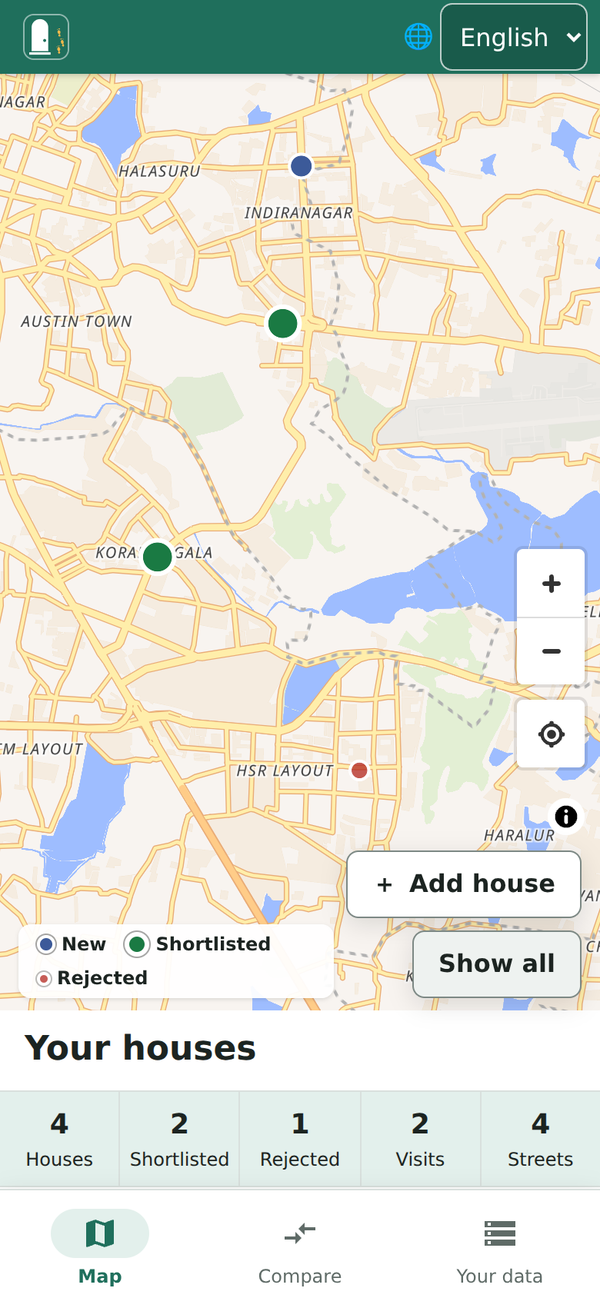
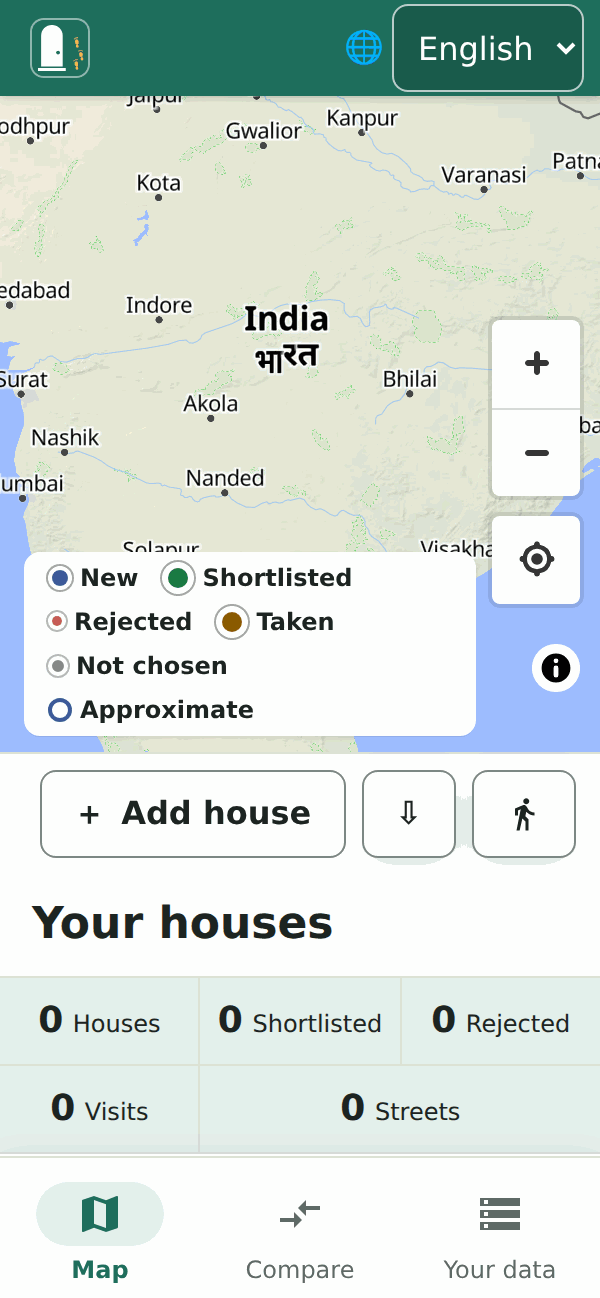
docs(guide): re-shoot the phone Map picture for the new layout (S4b-BL-250)
web-phone-map.png taken from the deployed site; 517,280 to 58,334 bytes.
Alt text updated in en, hi, ta, te.

Claude-Session: https://claude.ai/code/session_01661aQxHCcyQpCCqFJLTZpH

diff --git a/docs/10-sprint-log.md b/docs/10-sprint-log.md
@@ -3,7 +3,7 @@
 | Field | Value |
 |---|---|
 | Document | Agile sprint log (goals, stories, sign-offs, CI results, retrospectives) |
-| Version | 0.284 |
+| Version | 0.285 |
 | Date | 2026-10-13 |
 | Author | Claude (Cowork), Docs team |
 | Status | Draft (Sprint 3.5 KMP foundation delivered and green on `19006bc`; Sprint 4a in progress, section 11; web host **Firebase Hosting at `https://doorprints.web.app`** since 2026-09-23, owner setup done, first deploy pending, §11.6; Sprint 4b scope set by the product owner with the 2026-09-22 additions and the 2026-09-23 import definition, section 12; **whole-app UX audit approved on both clients**, the go-ahead for the first deploy, §11.7; owner's security guard rule, release security gate, process improvements and **first-release Definition of Done** (hi/ta/te ship *under review*) §12.5; licence change to AGPL-3.0-only approved, done 2026-09-29, §12.6; pre-deploy close-out, what is left, backlog tickets and rule candidates, §12.7; **owner issue P0 of 2026-09-24, India's boundaries on the map, merged (PRs #13 and #14) and live**, §12.8; **story S4b-BR-1, the app icon's footprints (option C), PR #15, merged (`76449fb`)**, §12.9; **owner request of 2026-09-24, the doubled lines and the Assam-Arunachal Pradesh state line, fixed on branch `fix/india-boundary-lines`, PR #16, merged (`4100f7a`)**, §12.10; **owner request of 2026-09-24, the Compose Multiplatform track (ADR-23), CMP-1 done in `be86f50`**, §13; **owner request of 2026-09-24, testing the APK and the live web UI, CMP-0 in `afe4064`**, §13.3; **the Sprint 4b/4c finishing batch (slice 5 to Wave E) built on stacked branches, not merged, 2026-10-01**, §13.29..§13.40) |
@@ -290,6 +290,7 @@
 | 0.282 | 2026-10-13 | Claude (Code), engineer | **S4b-BL-252** (`fix/sync-photo-row-key-order`): the key order of a photo row in the Drive sync file is pinned byte for byte on both stacks (the shared written case of `sync-vectors.json` gains a photo with a Drive file and one without, written by the website and by the phone's `SyncRows.photo` alike); TC-U-206, [06](06-test-plan.md); [schemas README](schemas/README.md) §6.5. |
 | 0.283 | 2026-10-13 | Claude (Code), engineer | **S4b-BL-247 In review: the viewing payload says `candidateId`** (`feat/kinds-4c-viewing-candidate-id`): every writer writes a viewing record's candidate as `candidateId` (web `viewingToPayload`, `:shared` `ViewingPayloadSerializer` for the phone and the iPhone, the server's `BackupViewing.toPayload`), every reader also reads `houseId` (the website's `viewingFromPayload`, the phone's `ViewingStore.of`, the server's `ViewingPayload.candidateOf` in `ViewingLine`, `BackupMapper` and `RecordController`, and `findLiveViewingsOfHouse` through `coalesce(payload ->> 'candidateId', payload ->> 'houseId')`), and a payload with both keys is a bad row on every stack; no Flyway migration (no stored row is rewritten). The server's AI line now also skips a candidate id over 64 characters, as the apps and its export already did. New shared vectors `docs/schemas/viewing-payload-vectors.json` (14 cases, read by the three stacks). Mutation lists `tools/mutations/kinds-4c-web-viewing.json` (4), `kinds-4c-android-viewing.json` (3), `kinds-4c-backend-viewing.json` (7), none survive. [03](03-design.md) v0.117 (§18.4 door 2, §18.5), [06](06-test-plan.md) v0.225 (TC-U-208), [schemas README](schemas/README.md) v1.37 (§6.6), [14](14-lead-backlog-and-handoff.md) v0.174 (§11.2). Left of S4b-BL-206: the guide and the CHANGELOG release entry. |
 | 0.284 | 2026-10-13 | Claude (Code), engineer | **S4b-BL-253 In review: `map-page.css` under its style budget again** (`fix/map-css-style-budget`): 262 bytes less in the minified component style (8,289 to 8,027; the budget stays 8kb) with every computed style and box on the map page unchanged (72 states, light and dark), the layout gate 193/193. New row S4b-BL-254 (Open): the `QuestionsScreenTest` flake seen once. |
+| 0.285 | 2026-10-13 | Claude (Code), engineer | **S4b-BL-250 In review: the guide's phone Map picture re-shot** (`docs/guide-phone-map-screenshot`): `guide/docs/images/web-phone-map.png` taken from the deployed site (300 by 649 at 2x, light, English, empty Map with no personal data, tiles loaded, tour dismissed) with the new layout (legend card in the map's corner, buttons in a row under the map, counters below); palette PNG, 517,280 to 58,334 bytes. The alt text on the English, Hindi, Tamil and Telugu pages now describes the new layout. |
 
 Related: [Requirements](01-requirements.md) · [Threat model](02-threat-model.md) · [Test plan](06-test-plan.md) · [Build and deploy](07-secure-build-and-deploy.md) · [Runbook](08-operations-runbook.md) · [CHANGELOG](../CHANGELOG.md)
 
@@ -1552,7 +1553,7 @@ S4b-BL-60 and S4b-BL-61 in v0.57, from the user guide (§17); S4b-BL-62 in v0.58
 | S4b-BL-246 | Web | **The website writes its Drive sync file in the candidate shape** (found in kinds step 4, S4b-BL-206, 2026-10-13). Since step 4 the phone writes `sync/1` with `candidates` (rows with `kind`, `money`, `extras`) and `candidateId` on visits and photos, and both stacks read either shape; the website's writer still writes `houses` and `houseId` (`drive-sync-backend.ts` `syncRowOf`, `sync-file.ts` `encodeSyncFile`), which the phone reads, so nothing is broken. Write `candidateOf(house)` for a house row, `candidateId` for a visit or photo and `candidates` as the list name; keep reading both. Tests: `sync-file.spec.ts` (the writer's keys), `drive-sync-engine.spec.ts` (a row read back is the house it was). **2026-10-13, built (`feat/kinds-4b-sync-and-extras`):** `syncJsonOf` (`sync-file.ts`) makes each of this device's rows: a house as `candidateOf(house)` without `syncVersion`, an empty value or the distance, `by` last; a visit's or photo's `houseId` as `candidateId`; `encodeSyncFile` names the list `candidates`; `LocalRowsAdapter` and `syncRowOf` use it, the readers are unchanged (both shapes). A row taken from another device's file is written on as it came, as on the phone. Tests: `sync-file.spec.ts`, `local-rows.spec.ts`, `drive-sync-engine.spec.ts`, and a `sync-vectors.json` case (`from`) the website writes byte for byte and the phone reads as the same rows (`SyncVectorsTest`). | In review |
 | S4b-BL-247 | Server, Web, Android, iOS | **The viewing payload says `candidateId`** (the records layer; left from kinds step 4, S4b-BL-206, 2026-10-13). A viewing is a record whose payload names its house as `houseId`; the backup's `viewings` list already says `candidateId` (`BackupWire` on three stacks), the payload does not. Three readers read the payload's `houseId`: the server's AI (`ViewingLine.from`, `RecordRepository.findLiveViewingsOfHouse`, a JSON query on the payload), its backup export (`BackupMapper`, the viewing row) and the website's `records.ts`; the phone's `Viewing` model. Every reader first reads both names (the phone through `@JsonNames`, the server's query on either key), then the writers move, so no stack ever reads a payload it cannot use; a payload with both is refused as a bad row. Tests: the server's viewing line and backup export with a new payload, the website's viewing decode, the phone's `ViewingsRepositoryTest`; `mvn verify` with PostGIS. **2026-10-13, built (`feat/kinds-4c-viewing-candidate-id`):** as planned, on the three stacks at once (one pull request, so no stack ever writes a key another cannot read): writers write `candidateId` only (web `viewingToPayload`, `:shared` `ViewingPayloadSerializer`, the server's `BackupViewing.toPayload`); readers read either key and refuse both (a `null` among them); the server reads both keys in its query (`coalesce`) and in one Java helper (`ViewingPayload.candidateOf`) **instead of a Flyway V2**, so no stored row is rewritten and a server, a device or a Drive file holding old payloads loses nothing; a device rewrites an old row when it next saves it. The backup row of the family before keeps `houseId` (the new family's `candidateId` is unchanged). Shared vectors `docs/schemas/viewing-payload-vectors.json`; tests on each stack, `mvn verify` with PostGIS; [06](06-test-plan.md) TC-U-208. | In review |
 | S4b-BL-249 | Web | **Your data and Connect shift on load on phones** (found 2026-10-13 by the layout gate's new layout-shift check, S4b-BL-49). Offline, on the gate's phones, `/data` measured 0.12-0.95 and `/connect` 0.18-0.75 (web-vitals session window; the Map page 0.000-0.003). The gate checks the Map page only until this is fixed (`layout-gate.js`); find what moves (the `layout-shift` entries' sources), keep its place or paint it once, then check every route. Tests: TC-S-46. | Open |
-| S4b-BL-250 | Docs, Web | **Re-shoot the guide's phone Map screenshot** (new id): `guide/docs/images/web-phone-map.png` shows the layout from before #289 and #290. Take it again from the deployed site on a phone-sized viewport (one small file, as the repository rules ask) and check the guide text that describes the map's buttons and legend. | Open |
+| S4b-BL-250 | Docs, Web | **Re-shoot the guide's phone Map screenshot** (new id): `guide/docs/images/web-phone-map.png` shows the layout from before #289 and #290. Take it again from the deployed site on a phone-sized viewport (one small file, as the repository rules ask) and check the guide text that describes the map's buttons and legend. | In review |
 | S4b-BL-251 | Web, Android | **Two small findings from the `AiService` specs (C-06)**, neither changed in that pull request. (1) `AiService.extractListing`, `ask` and `planVisits` do not check `enabled()` themselves: the switch *AI features* (off until the person turns it on, docs/03 §12.1) is enforced only by the pages (`@if (ai.enabled())` in `app.ts`, `ask-page.html`, `plan-page.html`, `house-detail-page.html`), so a new caller that forgets the check would send a listing to the server or to Google with the switch off. Gate the three calls in the service (an error `ai.optInNeeded`, nothing sent) and add the case to `ai.service.requests.spec.ts`. (2) `aiErrorMsg` reads `Retry-After` with `parseInt`, so an HTTP-date value (which RFC 9110 allows and `retryAfterSeconds` in `format.ts` handles) shows 60 seconds; the AI handlers send seconds, so no known harm. Use `retryAfterSeconds` there. **Done in `fix/ai-services-refuse-while-off` (v0.281):** (1) the services refuse while AI is off, on the website (`AiOffError`) and the phones (`ApiException.Kind.AI_OFF`), with the setup tests left open; (2) `aiErrorMsg` uses `retryAfterSeconds`. | In review |
 | S4b-BL-252 | Web, Android, iOS | **The key order of a photo row in the sync file** (found in the review of #297, 2026-10-13). Finding: `sync-vectors.json`'s written case had a photo whose Drive file (`driveFileId`, `sha256`) stood before `by`, while the real writers put it after `by`: the engine and the tombstone make the row (`by` last, like a house or visit), then `withRef` adds the Drive file, on the website (`drive-photo-seams.ts`) and on the phone (`SyncRows.photo`, `SyncRows.withRef`; `:shared`, so iOS too) alike. The website's test fed the Drive file in with the DTO, so it passed on an order no writer produces, and the phone's test compared the photo only by value, so nothing pinned that the two writers agree. House and visit rows were already compared byte for byte. Fix: the canonical order is the one both writers already give (`by`, then `driveFileId`, `sha256`; the schema's "PhotoChangeDto plus by, and the Drive file"), so **no production code changes**; the written case now has the photo as a DTO (`from`), its Drive file in `photoRefs`, and a photo without one (`p2`); the website's spec writes it through `syncRowOf` and `withRef`, the phone's `SyncVectorsTest` through `SyncRows.photo(dto, by, ref)`, and both compare the photo rows byte for byte (the by-value fallback is gone). Mutations: `tools/mutations/sync-photo-row-key-order-web.json` and `-kotlin.json` (the Drive file written before `by`). Tests: TC-U-206. | In review |
 | S4b-BL-253 | Web | **`map-page.css` went 97 bytes over its component-style budget** (found 2026-10-13 by `ng build`: `map-page.css exceeded maximum budget. Budget 8.00 kB was not met by 97 bytes with a total of 8.10 kB`, `anyComponentStyle` `maximumWarning` 8kb, measured on the minified output; the file had grown with the phone map layout, S4b-BL-49). The budget is not raised (budgets only shrink, [14](14-lead-backlog-and-handoff.md) §7). Fixed in `fix/map-css-style-budget`: 262 bytes less (8,289 to 8,027), with no change to what renders. `grid-area: 3 / 1` for `grid-row: 3; grid-column: 1`; `place-self: end start` for the two self-alignments; the `.map-actions` `flex-wrap: wrap` that restated the base rule is gone; the four `color: var(--text)` that restated the inherited colour (`.legend`, `.add-hint`, `.stats dd`, `.stats dt`) are gone; the legend-hiding selector is `.map-wrap:has(.maplibregl-compact-show) .legend` (MapLibre sets that class on the credits box only); the three credits rules lost their `.maplibregl-ctrl-bottom-right` prefix (the credits are always in that corner; each rule still outranks MapLibre's own, 0,3,0 against 0,2,0, whatever the order of the style sheets). Proof: every computed style and box of the map, legend, actions, hint, counters and MapLibre's credits box and button on 320x568, 360x640, 390x664, 568x320, 384x615 and 320x568 at 130% text, 360x740 at 200% and 1024x700, light and dark, with the credits open at the start, folded, opened by a tap, and in add mode, is identical before and after (72 states); the layout gate stays 193/193, largest Map page shift 0.000; `map-page.spec.ts` and `tools/mutations/map-short-screen-layout.json` follow the new text. Tests: TC-S-46. | In review |

diff --git a/guide/i18n/ta/screen-at-a-glance.md b/guide/i18n/ta/screen-at-a-glance.md
@@ -19,7 +19,7 @@
 தொலைபேசியில், இதே பக்கம் வரைபடத்தைப் பட்டியலுக்கு மேலே வைக்கும். பட்டி கீழே உள்ள பட்டைக்குச் செல்லும்: **வரைபடம்**,
 **ஒப்பிடு**, **உங்கள் தரவு**. **இணைப்பு** **உங்கள் தரவு** உள்ளே இருக்கும்.
 
-<img src="images/web-phone-map.png" width="300" alt="தொலைபேசியில் Doorprints இணையதளம்: குறிகளுடன் வரைபடம், பெரிதாக்கும் பொத்தான்கள், வீட்டைச் சேர், அனைத்தையும் காட்டு, வண்ணக் குறிப்பு, எண்ணிக்கைகள், கீழ்ப் பட்டையில் வரைபடம், ஒப்பிடு, உங்கள் தரவு">
+<img src="images/web-phone-map.png" width="300" alt="தொலைபேசியில் Doorprints இணையதளம்: வரைபடம், அதன் மூலையில் பெரிதாக்கும் மற்றும் இருப்பிடப் பொத்தான்களும் வண்ணக் குறிப்பும், வரைபடத்தின் கீழ் வீட்டைச் சேர் முதலாக உள்ள பொத்தான் வரிசை, எண்ணிக்கைகள், கீழ்ப் பட்டையில் வரைபடம், ஒப்பிடு, உங்கள் தரவு">
 
 ## Android {#android}
 

diff --git a/guide/i18n/hi/screen-at-a-glance.md b/guide/i18n/hi/screen-at-a-glance.md
@@ -19,7 +19,7 @@
 फ़ोन पर यही पेज नक्शे को सूची के ऊपर रखता है। मेन्यू नीचे की पट्टी में चला जाता है: **नक्शा**, **तुलना** और
 **आपका डेटा**। **कनेक्शन** **आपका डेटा** के अंदर है।
 
-<img src="images/web-phone-map.png" width="300" alt="फ़ोन पर Doorprints वेबसाइट: पिन वाला नक्शा, ज़ूम बटन, मकान जोड़ें और सभी दिखाएँ, रंगों का संकेत, गिनती, और नीचे की पट्टी में नक्शा, तुलना और आपका डेटा">
+<img src="images/web-phone-map.png" width="300" alt="फ़ोन पर Doorprints वेबसाइट: नक्शा जिसके कोने में ज़ूम और जगह के बटन और रंगों का संकेत हैं, नक्शे के नीचे बटनों की पंक्ति जिसमें पहला मकान जोड़ें है, गिनती, और नीचे की पट्टी में नक्शा, तुलना और आपका डेटा">
 
 ## Android {#android}
 

diff --git a/guide/i18n/te/screen-at-a-glance.md b/guide/i18n/te/screen-at-a-glance.md
@@ -19,7 +19,7 @@
 ఫోన్లో, ఇదే పేజీ మ్యాప్ను జాబితా పైన పెడుతుంది. మెనూ కింద ఉన్న బార్కు వెళ్తుంది: **మ్యాప్**, **పోల్చండి**,
 **మీ డేటా**. **కనెక్షన్** **మీ డేటా** లోపల ఉంటుంది.
 
-<img src="images/web-phone-map.png" width="300" alt="ఫోన్లో Doorprints వెబ్సైట్: పిన్లతో మ్యాప్, జూమ్ బటన్లు, ఇల్లు చేర్చండి, అన్నీ చూపించు, సూచిక, లెక్కలు, కింది బార్లో మ్యాప్, పోల్చండి, మీ డేటా">
+<img src="images/web-phone-map.png" width="300" alt="ఫోన్లో Doorprints వెబ్సైట్: మ్యాప్, దాని మూలలో జూమ్, లొకేషన్ బటన్లు, సూచిక, మ్యాప్ కింద ఇల్లు చేర్చండి మొదటిగా ఉన్న బటన్ల వరుస, లెక్కలు, కింది బార్లో మ్యాప్, పోల్చండి, మీ డేటా">
 
 ## Android {#android}
 

diff --git a/guide/docs/screen-at-a-glance.md b/guide/docs/screen-at-a-glance.md
@@ -21,7 +21,7 @@
 On a phone, the same page puts the map above the list. The menu moves to a bar at the bottom: **Map**, **Compare**
 and **Your data**. **Connect** is inside **Your data**.
 
-<img src="images/web-phone-map.png" width="300" alt="The Doorprints website on a phone: the map with pins, zoom buttons, Add house and Show all, the legend, the counts, and the bottom bar with Map, Compare and Your data">
+<img src="images/web-phone-map.png" width="300" alt="The Doorprints website on a phone: the map with its zoom and location buttons and the legend in its corner, a row of buttons under the map starting with Add house, the counts, and the bottom bar with Map, Compare and Your data">
 
 ## Android
 
